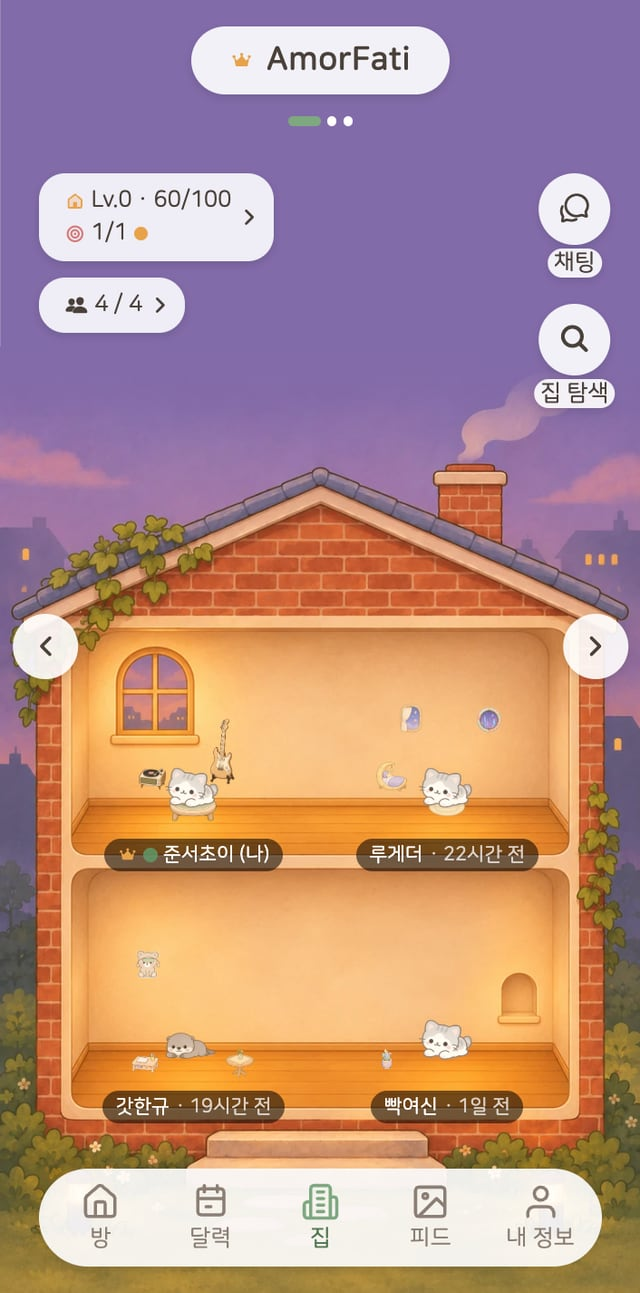
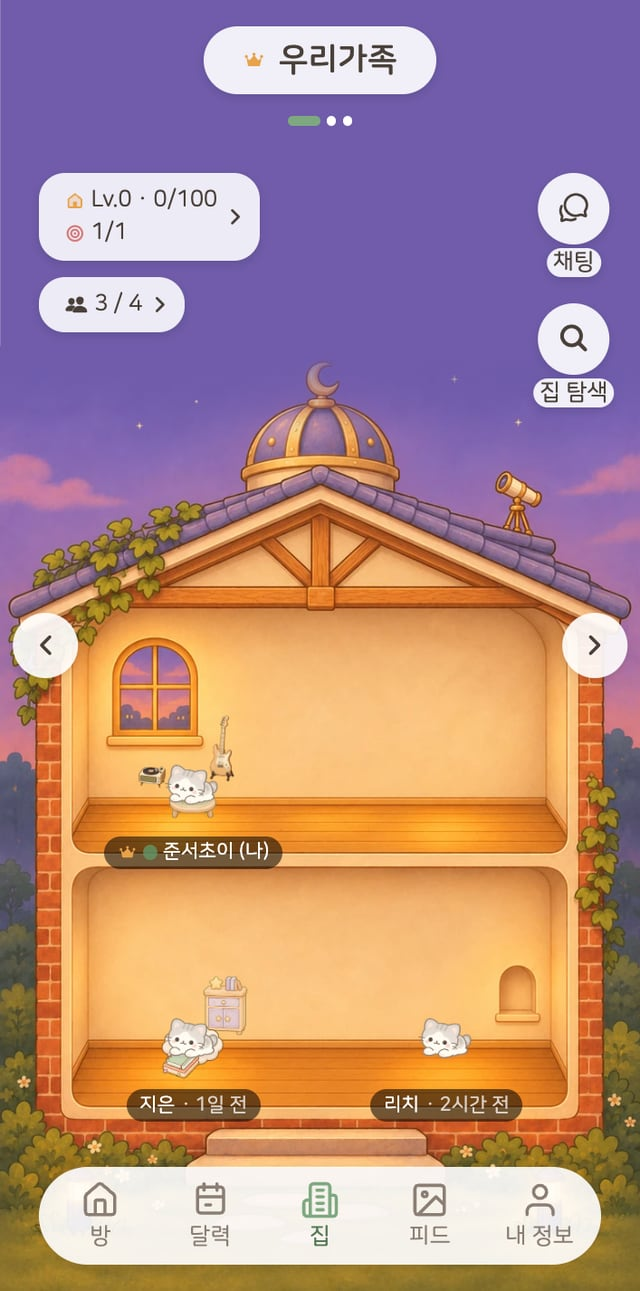
fix: 집 화면 사진을 가족 집으로 — 다른 구성원 닉네임 노출 최소화

diff --git a/src/i18n/index.ts b/src/i18n/index.ts
@@ -45,7 +45,7 @@ const ko: Dict = {
   },
   // 카피·캡처는 App Store 스크린샷(2026-09)과 동일 — 스토어에서 본 앱을 랜딩에서 그대로 만나게
   tour: [
-    { title: ['친구들과 한 집에서', '함께 쌓는 루틴'], desc: '초대코드로 모인 친구들의 방이 한 집에 — 채팅으로 이야기하고, 응원을 보내고, 같이 지킨 루틴이 집 레벨을 올려요', alt: '집 화면 — 벽돌집에 모인 네 친구의 방, 집 레벨·목표·멤버와 채팅·집 탐색 버튼' },
+    { title: ['친구들과 한 집에서', '함께 쌓는 루틴'], desc: '초대코드로 모인 친구들의 방이 한 집에 — 채팅으로 이야기하고, 응원을 보내고, 같이 지킨 루틴이 집 레벨을 올려요', alt: '집 화면 — 천문대 지붕 집에 모인 가족의 방, 집 레벨·목표·멤버와 채팅·집 탐색 버튼' },
     { title: ['친구가 놀러 오는', '내 취향의 방'], desc: '루틴으로 모은 코인으로 가구·소품·벽지·바닥을 골라 꾸미면, 친구들이 놀러 와 구경하고 방명록을 남겨요', alt: '방 꾸미기 화면 — 가구·소품·벽지·바닥·AI 가구 탭과 적용하기' },
     { title: ['매일의 할 일은', '가볍게 체크'], desc: '학업·건강처럼 카테고리로 묶고, 오늘 몇 개 해냈는지 한눈에 봐요', alt: '오늘의 할 일 화면 — 할 일·학업·건강과 집 카테고리, 곰 체크' },
     { title: ['차곡차곡 쌓인 하루', '달력에서 한눈에'], desc: '날짜를 누르면 그날의 루틴·할 일이 펼쳐지고, 루틴·할 일별로 골라 볼 수 있어요', alt: '달력 화면 — 11월 달력과 오늘의 루틴·할 일' },
